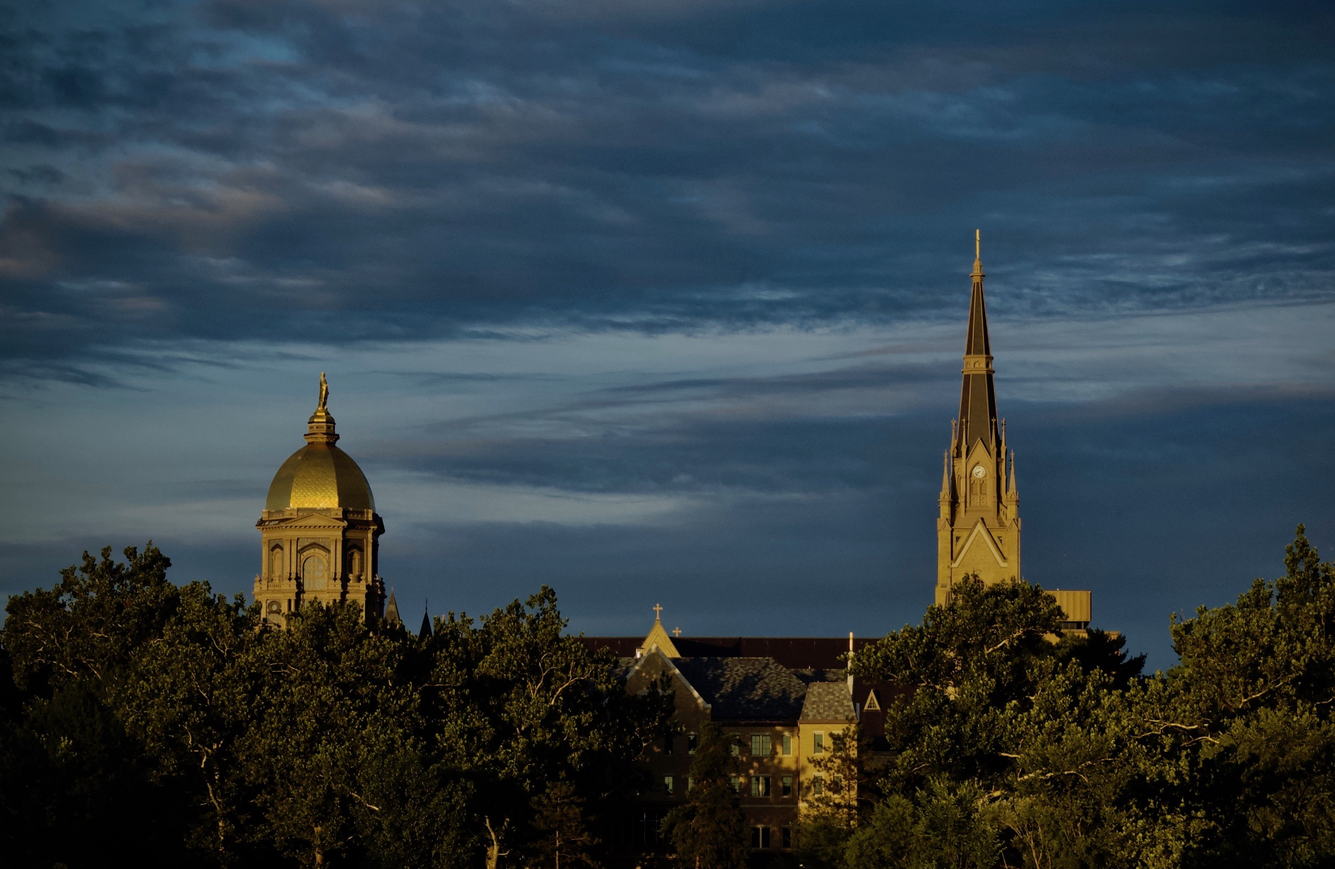
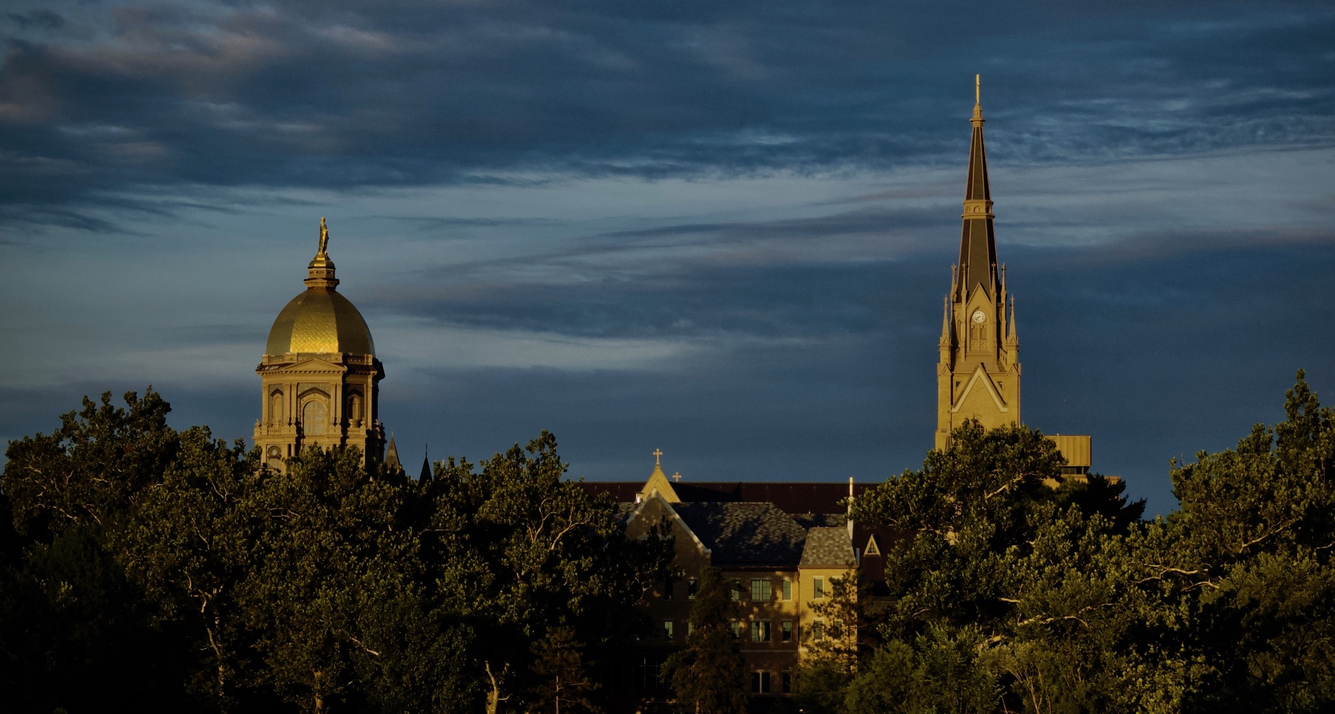
remove date for universal and fix image

diff --git a/src/app/tracker-body/submit-data/submit-data.component.html b/src/app/tracker-body/submit-data/submit-data.component.html
@@ -6,7 +6,7 @@
                     <div class="input-group-prepend">
                         <label class="input-group-text" for="date">Date</label>
                     </div>
-                    <input type="date" class="form-control" formControlName="date" id="date" placeholder="mm/dd/yyyy"
+                    <input type="text" class="form-control" formControlName="date" id="date" placeholder="mm/dd/yyyy"
                         required>
                 </div>
                 <div class="form-control-feedback" *ngIf="date.errors && (date.dirty || date.touched)">

diff --git a/src/app/app.component.html b/src/app/app.component.html
@@ -1,5 +1,5 @@
 <div class="component-body">
-    <img class="background-image" src="assets/images/nd.jpeg" alt="skyline">
+    <img class="background-image" src="https://law.nd.edu/assets/219780/1000x/nd_campus_skyline_sunrise.jpg" alt="skyline">
     <app-tracker-body class="tracker-body"></app-tracker-body>
     <app-footer class="footer"></app-footer>
 </div>

diff --git a/src/app/app.component.css b/src/app/app.component.css
@@ -16,7 +16,7 @@
     position: absolute;
     opacity: 15%;
     z-index: 1;
-    flex-shrink: 0;
+    flex-shrink: 2;
     min-width: 100%;
     min-height: 100%;
 }
